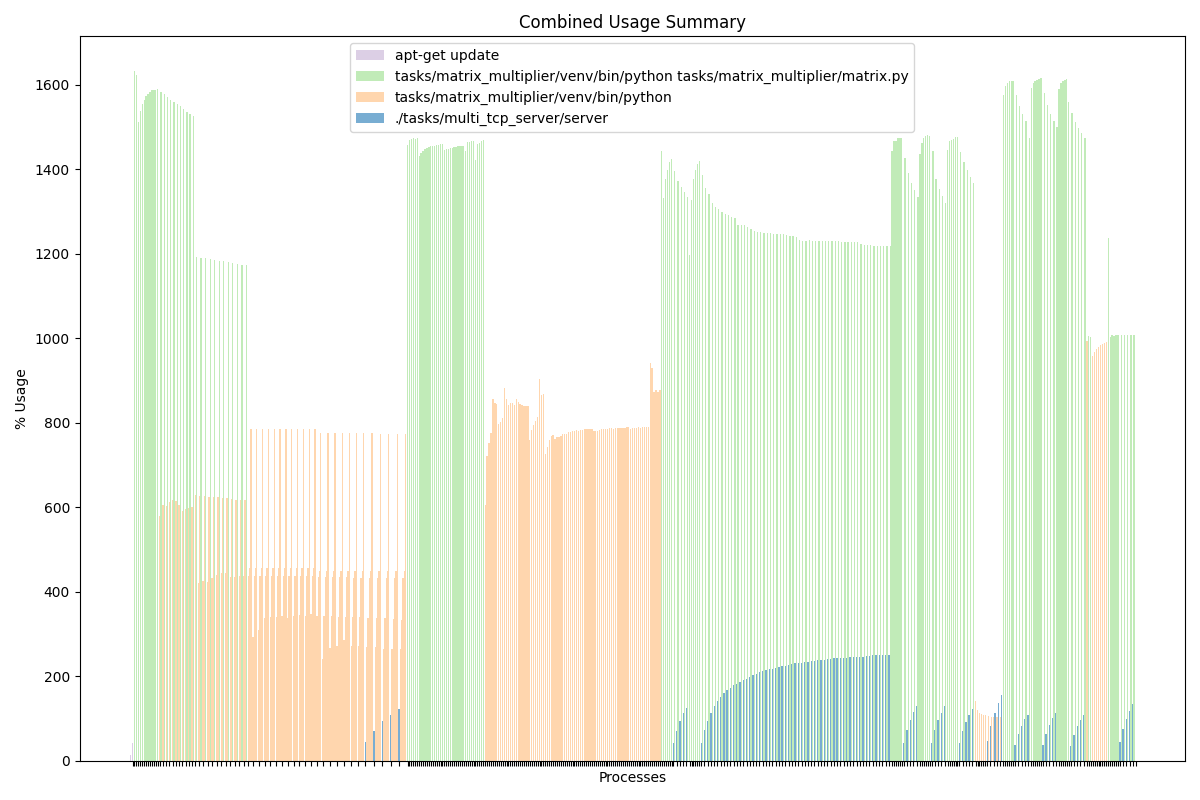
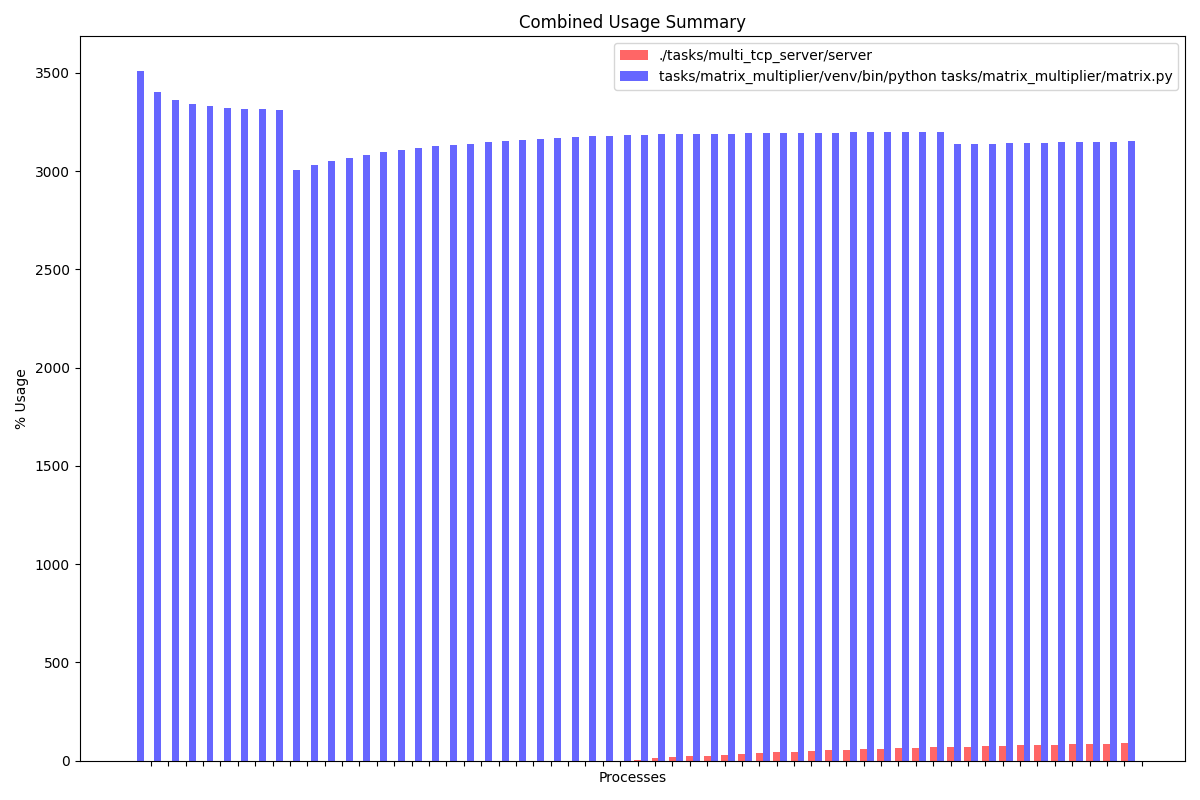
update

diff --git a/plot/ps-plot.py b/plot/ps-plot.py
@@ -40,7 +40,7 @@ def parse_ps_log(file_path):
                 cpu = float(fields[0])
                 mem = float(fields[1])
                 args = ' '.join(fields[2:])
-                if cpu > 10.0:
+                if cpu > 10.0 and "matrix" in args or "server" in args:
                     process_names.append(args)
                     cpu_data.append(cpu)
                     mem_data.append(mem)
@@ -68,7 +68,7 @@ def create_combined_bar_plot(data):
             x = np.arange(len(names))
             
             # Plot CPU% bars
-            ax.bar(x*bar_width + offset, cpu_data, bar_width, label = names, alpha=0.6, color=[color_map(hash(n)%10) for n in names])
+            ax.bar(x*bar_width + offset, cpu_data, bar_width, label = names, alpha=0.6, color=["red" if "server" in n else "blue"  for n in names])
             
             # Plot MEM% bars
             #ax.bar(x + offset + bar_width/2, mem_data, bar_width, label = names,alpha=0.6, color=[color_map(hash(n)%10) for n in names])

diff --git a/plot/fig1-new.py b/plot/fig1-new.py
@@ -21,7 +21,8 @@ def parse_mm(file_path):
                 timestamp = match.group(1)
                 data.append({"latency": latency, "time": datetime.strptime(timestamp, "%b %d %Y %H:%M:%S.%f")})
             i += 1
-            
+
+    print(data)    
     return data
 
 def parse_log_timestamps(file_path):
@@ -77,7 +78,6 @@ def plot_latency_over_time(data, log_times, mm_through):
     ax1.set_ylim([0,1.2*10**7])
     ax2 = ax1.twinx()
     ax2.plot([m["time"] for m in mm_through], [m["latency"] for m in mm_through], color = "orange", alpha = 0.6)
-    ax2.set_ylim([0.1,.15])
     ax1.plot([d["time"] for d in data], [d["latency"] for d in data])
 
     plt.xlabel('Time')

diff --git a/plot/fig-mult.py b/plot/fig-mult.py
@@ -74,7 +74,7 @@ def plot_latency_over_time(data, log_times, mm_through, mult = False):
         plt.axvline(x=x["time"], color = "pink")
    
 
-    #ax1.set_ylim([0,1.2*10**7])
+    ax1.set_ylim([0,1.75*10**7])
     ax2 = ax1.twinx()
     ax2.plot([m["time"] for m in mm_through], [m["latency"] for m in mm_through], color = "orange", alpha = 0.6)
     #ax1.set_ylim([-1,1])
